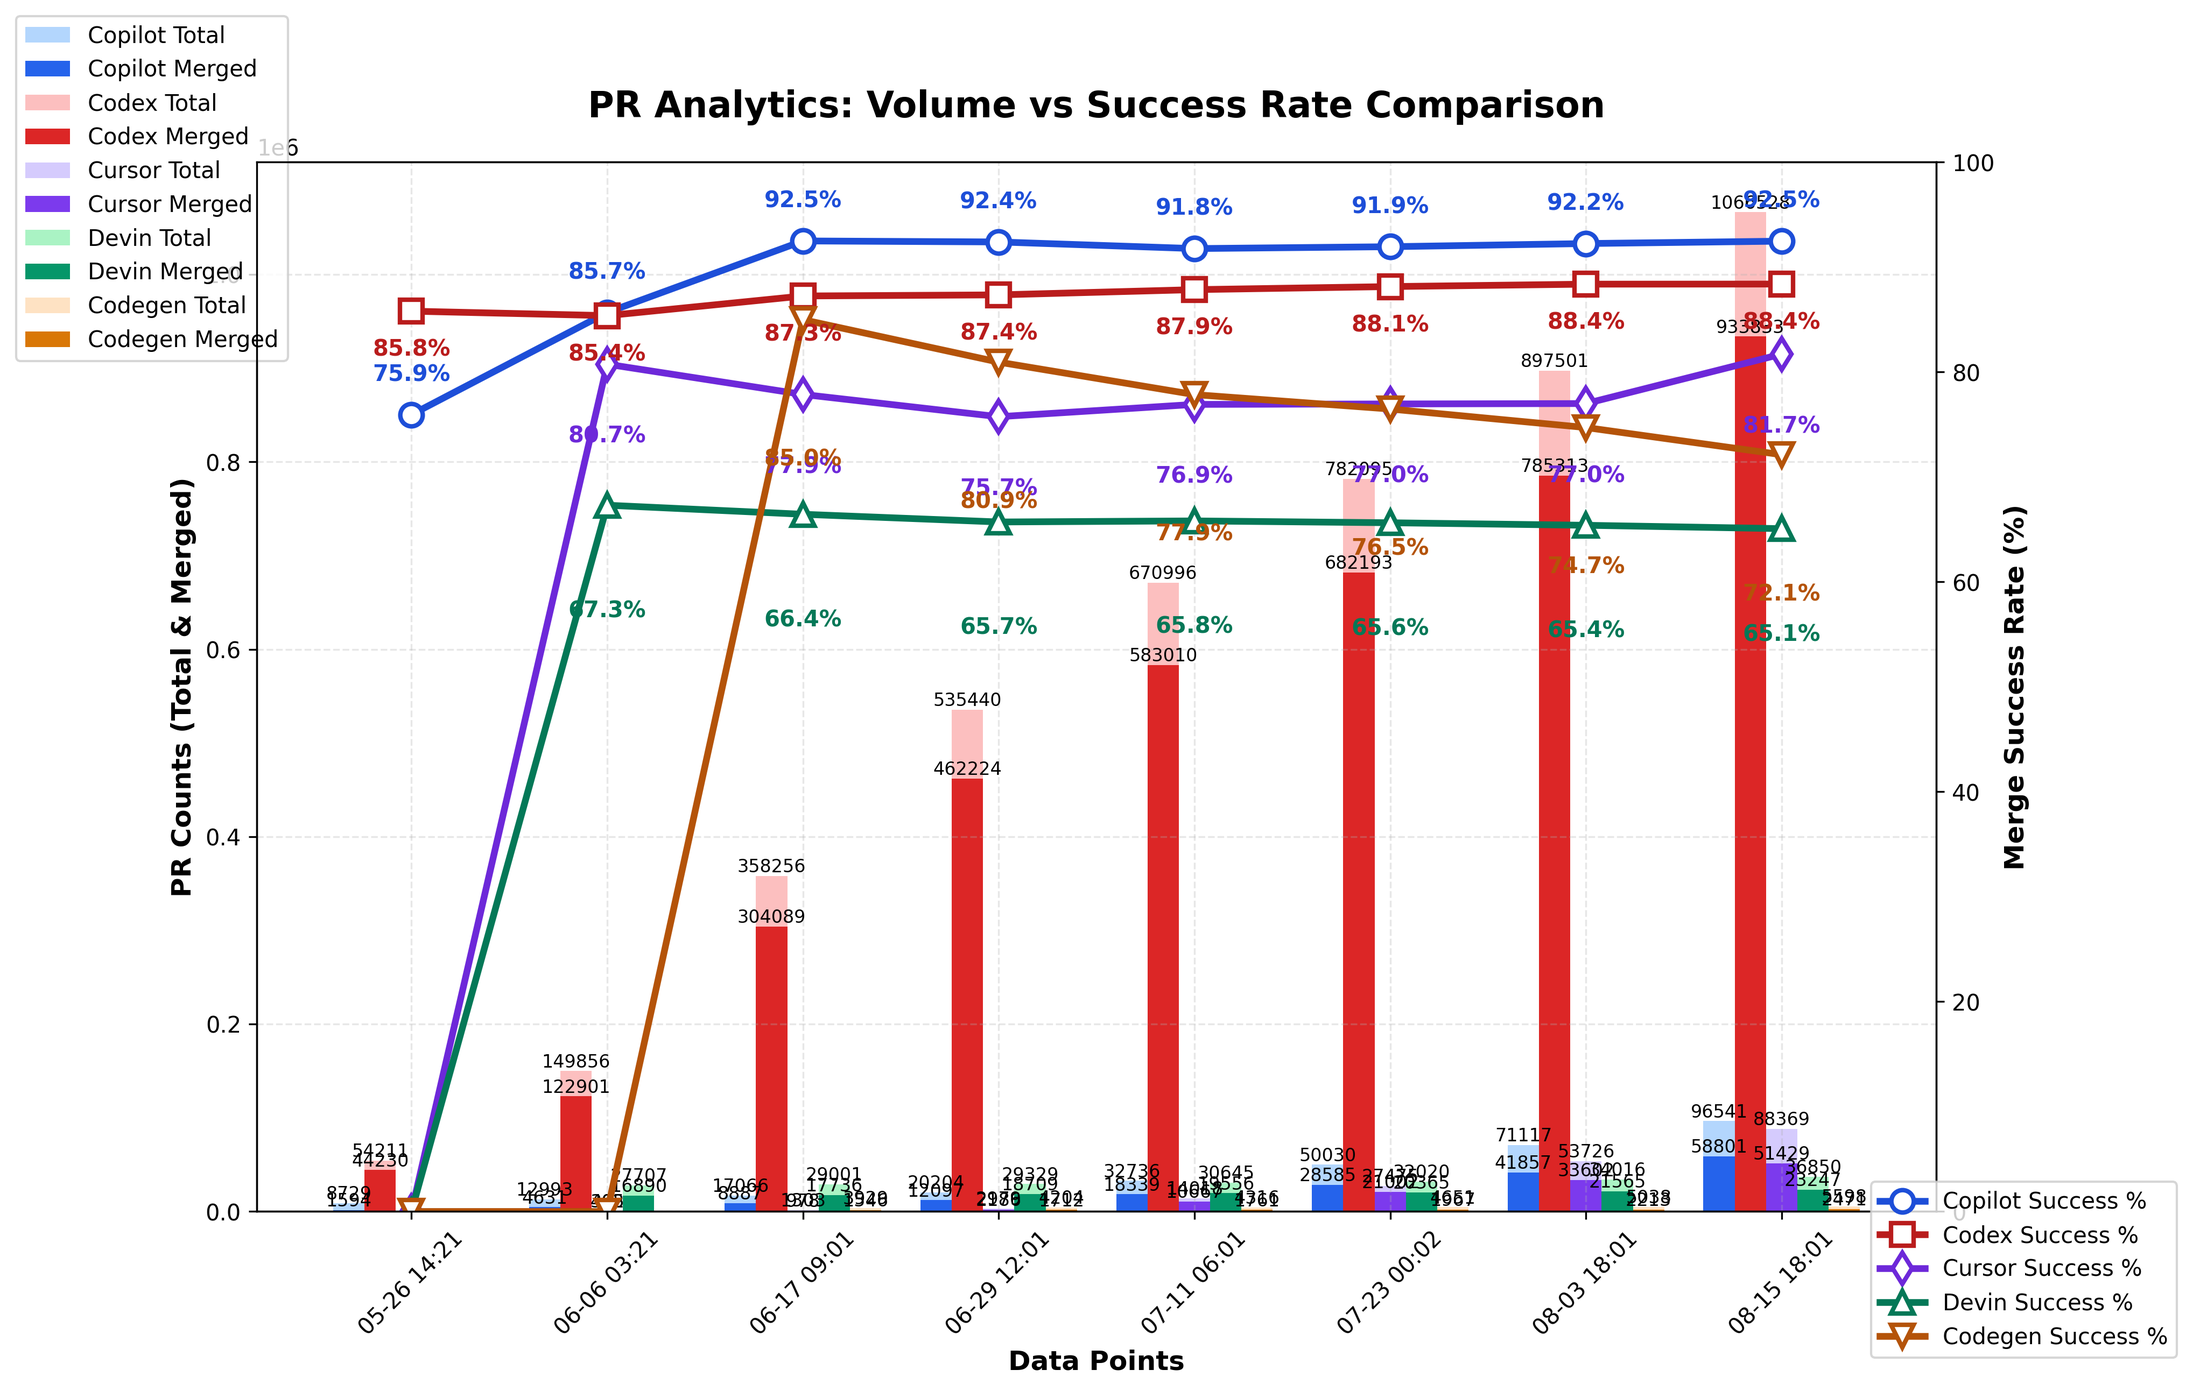
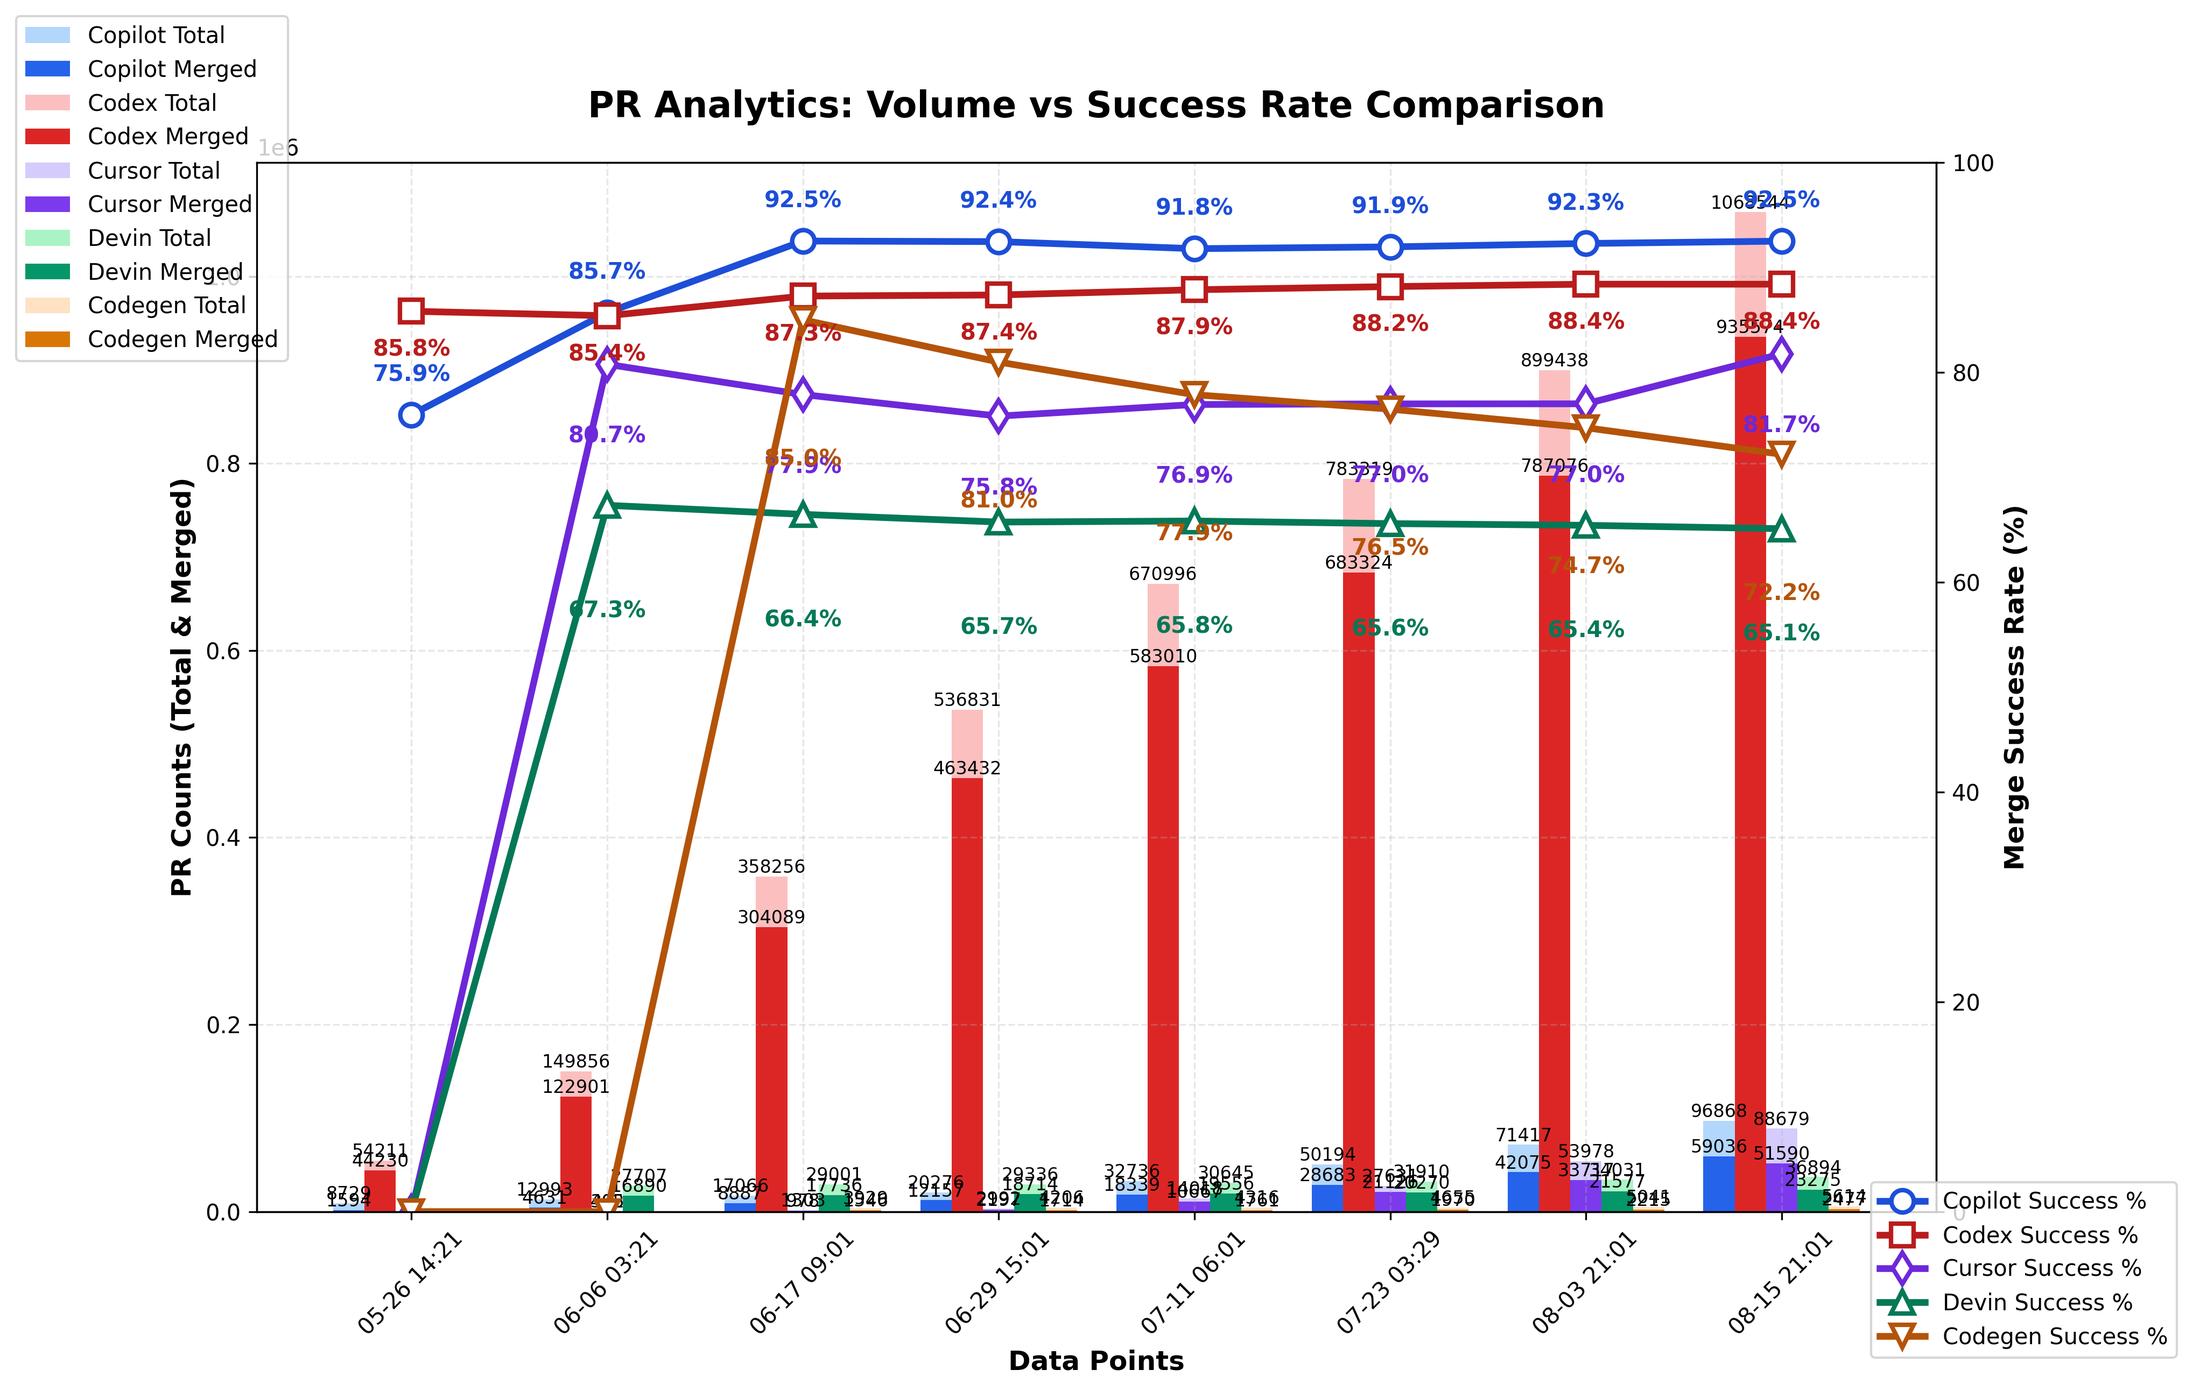
chore: update PR‑approval chart

diff --git a/docs/index.html b/docs/index.html
@@ -54,12 +54,12 @@
         <div class="agents-container" id="agentsContainer">
 
           <div class="agent"
-               data-success-rate="92.47621294330423"
-               data-success-rate-ready="92.47621294330423"
-               data-success-rate-total="60.90780083073513"
-               data-total-prs="96541"
-               data-ready-prs="63585"
-               data-merged-prs="58801"
+               data-success-rate="92.48652713372603"
+               data-success-rate-ready="92.48652713372603"
+               data-success-rate-total="60.944790849403304"
+               data-total-prs="96868"
+               data-ready-prs="63832"
+               data-merged-prs="59036"
                data-agent-name="GitHub Copilot coding agent">
             <div class="agent-header">
               <div class="rank" data-rank="1">#1</div>
@@ -67,9 +67,9 @@
               <div class="agent-info">
                 <h3><a href="https://docs.github.com/en/copilot/how-tos/use-copilot-agents/coding-agent" target="_blank">GitHub Copilot coding agent</a></h3>
                 <span class="agent-subtitle">
-                  <span class="pr-count">63,585</span>
+                  <span class="pr-count">63,832</span>
                   <span class="pr-type">ready</span> /
-                  <span class="pr-total">96,541</span>
+                  <span class="pr-total">96,868</span>
                   <span class="pr-total-label">all PRs</span>
                 </span>
               </div>
@@ -84,19 +84,19 @@
               <div class="secondary-metrics">
                 <div class="metric draft-metric">
                   <a href="https://github.com/search?q=is:pr+head:copilot/+is:draft&type=pullrequests" target="_blank">
-                    <span class="metric-count">32,956</span>
+                    <span class="metric-count">33,036</span>
                     <span>draft</span>
                   </a>
                 </div>
                 <div class="metric">
                   <a href="https://github.com/search?q=is:pr+head:copilot/+-is:draft&type=pullrequests" target="_blank">
-                    <span class="metric-count">63,585</span>
+                    <span class="metric-count">63,832</span>
                     <span>ready</span>
                   </a>
                 </div>
                 <div class="metric">
                   <a href="https://github.com/search?q=is:pr+head:copilot/+is:merged&type=pullrequests" target="_blank">
-                    <span class="metric-count">58,801</span>
+                    <span class="metric-count">59,036</span>
                     <span>merged</span>
                   </a>
                 </div>
@@ -105,18 +105,18 @@
           <div class="progress-bar">
             <div
               class="progress"
-              style="width: 92.47621294330423%; background-color: #2563eb"
+              style="width: 92.48652713372603%; background-color: #2563eb"
             ></div>
           </div>
         </div>
         
           <div class="agent"
-               data-success-rate="88.3873801138262"
-               data-success-rate-ready="88.3873801138262"
-               data-success-rate-total="87.55822631942152"
-               data-total-prs="1066528"
-               data-ready-prs="1056523"
-               data-merged-prs="933833"
+               data-success-rate="88.38343378615829"
+               data-success-rate-ready="88.38343378615829"
+               data-success-rate-total="87.55596400335409"
+               data-total-prs="1068544"
+               data-ready-prs="1058540"
+               data-merged-prs="935574"
                data-agent-name="OpenAI Codex">
             <div class="agent-header">
               <div class="rank" data-rank="2">#2</div>
@@ -124,9 +124,9 @@
               <div class="agent-info">
                 <h3><a href="https://openai.com/index/introducing-codex/" target="_blank">OpenAI Codex</a></h3>
                 <span class="agent-subtitle">
-                  <span class="pr-count">1,056,523</span>
+                  <span class="pr-count">1,058,540</span>
                   <span class="pr-type">ready</span> /
-                  <span class="pr-total">1,066,528</span>
+                  <span class="pr-total">1,068,544</span>
                   <span class="pr-total-label">all PRs</span>
                 </span>
               </div>
@@ -141,19 +141,19 @@
               <div class="secondary-metrics">
                 <div class="metric draft-metric">
                   <a href="https://github.com/search?q=is:pr+head:codex/+is:draft&type=pullrequests" target="_blank">
-                    <span class="metric-count">10,005</span>
+                    <span class="metric-count">10,004</span>
                     <span>draft</span>
                   </a>
                 </div>
                 <div class="metric">
                   <a href="https://github.com/search?q=is:pr+head:codex/+-is:draft&type=pullrequests" target="_blank">
-                    <span class="metric-count">1,056,523</span>
+                    <span class="metric-count">1,058,540</span>
                     <span>ready</span>
                   </a>
                 </div>
                 <div class="metric">
                   <a href="https://github.com/search?q=is:pr+head:codex/+is:merged&type=pullrequests" target="_blank">
-                    <span class="metric-count">933,833</span>
+                    <span class="metric-count">935,574</span>
                     <span>merged</span>
                   </a>
                 </div>
@@ -162,18 +162,18 @@
           <div class="progress-bar">
             <div
               class="progress"
-              style="width: 88.3873801138262%; background-color: #dc2626"
+              style="width: 88.38343378615829%; background-color: #dc2626"
             ></div>
           </div>
         </div>
         
           <div class="agent"
-               data-success-rate="81.71245173898537"
-               data-success-rate-ready="81.71245173898537"
-               data-success-rate-total="58.19801061458204"
-               data-total-prs="88369"
-               data-ready-prs="62939"
-               data-merged-prs="51429"
+               data-success-rate="81.74745281972461"
+               data-success-rate-ready="81.74745281972461"
+               data-success-rate-total="58.17611835947631"
+               data-total-prs="88679"
+               data-ready-prs="63109"
+               data-merged-prs="51590"
                data-agent-name="Cursor Agents">
             <div class="agent-header">
               <div class="rank" data-rank="3">#3</div>
@@ -181,9 +181,9 @@
               <div class="agent-info">
                 <h3><a href="https://docs.cursor.com/background-agent" target="_blank">Cursor Agents</a></h3>
                 <span class="agent-subtitle">
-                  <span class="pr-count">62,939</span>
+                  <span class="pr-count">63,109</span>
                   <span class="pr-type">ready</span> /
-                  <span class="pr-total">88,369</span>
+                  <span class="pr-total">88,679</span>
                   <span class="pr-total-label">all PRs</span>
                 </span>
               </div>
@@ -198,19 +198,19 @@
               <div class="secondary-metrics">
                 <div class="metric draft-metric">
                   <a href="https://github.com/search?q=is:pr+head:cursor/+is:draft&type=pullrequests" target="_blank">
-                    <span class="metric-count">25,430</span>
+                    <span class="metric-count">25,570</span>
                     <span>draft</span>
                   </a>
                 </div>
                 <div class="metric">
                   <a href="https://github.com/search?q=is:pr+head:cursor/+-is:draft&type=pullrequests" target="_blank">
-                    <span class="metric-count">62,939</span>
+                    <span class="metric-count">63,109</span>
                     <span>ready</span>
                   </a>
                 </div>
                 <div class="metric">
                   <a href="https://github.com/search?q=is:pr+head:cursor/+is:merged&type=pullrequests" target="_blank">
-                    <span class="metric-count">51,429</span>
+                    <span class="metric-count">51,590</span>
                     <span>merged</span>
                   </a>
                 </div>
@@ -219,18 +219,18 @@
           <div class="progress-bar">
             <div
               class="progress"
-              style="width: 81.71245173898537%; background-color: #7c3aed"
+              style="width: 81.74745281972461%; background-color: #7c3aed"
             ></div>
           </div>
         </div>
         
           <div class="agent"
-               data-success-rate="65.07572152394816"
-               data-success-rate-ready="65.07572152394816"
-               data-success-rate-total="63.0854816824966"
-               data-total-prs="36850"
-               data-ready-prs="35723"
-               data-merged-prs="23247"
+               data-success-rate="65.07940946202886"
+               data-success-rate-ready="65.07940946202886"
+               data-success-rate-total="63.08613866753402"
+               data-total-prs="36894"
+               data-ready-prs="35764"
+               data-merged-prs="23275"
                data-agent-name="Devin">
             <div class="agent-header">
               <div class="rank" data-rank="4">#4</div>
@@ -238,9 +238,9 @@
               <div class="agent-info">
                 <h3><a href="https://devin.ai/pricing" target="_blank">Devin</a></h3>
                 <span class="agent-subtitle">
-                  <span class="pr-count">35,723</span>
+                  <span class="pr-count">35,764</span>
                   <span class="pr-type">ready</span> /
-                  <span class="pr-total">36,850</span>
+                  <span class="pr-total">36,894</span>
                   <span class="pr-total-label">all PRs</span>
                 </span>
               </div>
@@ -255,19 +255,19 @@
               <div class="secondary-metrics">
                 <div class="metric draft-metric">
                   <a href="https://github.com/search?q=is:pr+author:devin-ai-integration[bot]+is:draft&type=pullrequests" target="_blank">
-                    <span class="metric-count">1,127</span>
+                    <span class="metric-count">1,130</span>
                     <span>draft</span>
                   </a>
                 </div>
                 <div class="metric">
                   <a href="https://github.com/search?q=is:pr+author:devin-ai-integration[bot]+-is:draft&type=pullrequests" target="_blank">
-                    <span class="metric-count">35,723</span>
+                    <span class="metric-count">35,764</span>
                     <span>ready</span>
                   </a>
                 </div>
                 <div class="metric">
                   <a href="https://github.com/search?q=is:pr+author:devin-ai-integration[bot]+is:merged&type=pullrequests" target="_blank">
-                    <span class="metric-count">23,247</span>
+                    <span class="metric-count">23,275</span>
                     <span>merged</span>
                   </a>
                 </div>
@@ -276,18 +276,18 @@
           <div class="progress-bar">
             <div
               class="progress"
-              style="width: 65.07572152394816%; background-color: #059669"
+              style="width: 65.07940946202886%; background-color: #059669"
             ></div>
           </div>
         </div>
         
           <div class="agent"
-               data-success-rate="72.12492702860479"
-               data-success-rate-ready="72.12492702860479"
-               data-success-rate-total="44.14076455877099"
-               data-total-prs="5598"
-               data-ready-prs="3426"
-               data-merged-prs="2471"
+               data-success-rate="72.17365967365967"
+               data-success-rate-ready="72.17365967365967"
+               data-success-rate-total="44.12183826148913"
+               data-total-prs="5614"
+               data-ready-prs="3432"
+               data-merged-prs="2477"
                data-agent-name="Codegen">
             <div class="agent-header">
               <div class="rank" data-rank="5">#5</div>
@@ -295,9 +295,9 @@
               <div class="agent-info">
                 <h3><a href="https://codegen.com/" target="_blank">Codegen</a></h3>
                 <span class="agent-subtitle">
-                  <span class="pr-count">3,426</span>
+                  <span class="pr-count">3,432</span>
                   <span class="pr-type">ready</span> /
-                  <span class="pr-total">5,598</span>
+                  <span class="pr-total">5,614</span>
                   <span class="pr-total-label">all PRs</span>
                 </span>
               </div>
@@ -305,26 +305,26 @@
             <div class="metrics">
               <div class="primary-metric">
                 <span class="metric-value">
-                  72.1%
+                  72.2%
                 </span>
                 <span class="metric-label">Success Rate</span>
               </div>
               <div class="secondary-metrics">
                 <div class="metric draft-metric">
                   <a href="https://github.com/search?q=is:pr+author:codegen-sh[bot]+is:draft&type=pullrequests" target="_blank">
-                    <span class="metric-count">2,172</span>
+                    <span class="metric-count">2,182</span>
                     <span>draft</span>
                   </a>
                 </div>
                 <div class="metric">
                   <a href="https://github.com/search?q=is:pr+author:codegen-sh[bot]+-is:draft&type=pullrequests" target="_blank">
-                    <span class="metric-count">3,426</span>
+                    <span class="metric-count">3,432</span>
                     <span>ready</span>
                   </a>
                 </div>
                 <div class="metric">
                   <a href="https://github.com/search?q=is:pr+author:codegen-sh[bot]+is:merged&type=pullrequests" target="_blank">
-                    <span class="metric-count">2,471</span>
+                    <span class="metric-count">2,477</span>
                     <span>merged</span>
                   </a>
                 </div>
@@ -333,7 +333,7 @@
           <div class="progress-bar">
             <div
               class="progress"
-              style="width: 72.12492702860479%; background-color: #d97706"
+              style="width: 72.17365967365967%; background-color: #d97706"
             ></div>
           </div>
         </div>
@@ -466,7 +466,7 @@
       <!-- Simple Footer -->
       <footer class="footer">
         <p>
-          Updated August 15, 2025 18:01 UTC •
+          Updated August 15, 2025 21:01 UTC •
           <a href="https://github.com/aavetis/ai-pr-watcher" target="_blank">by aavetis</a>
         </p>
       </footer>

diff --git a/README.md b/README.md
@@ -48,8 +48,8 @@ Explore the GitHub search queries used:
 
 | Project | Ready PRs | Merged PRs | Success Rate |
 | ------- | --------- | ---------- | ------------ |
-| Copilot | 63,585 | 58,801 | 92.48% |
-| Codex | 1,056,523 | 933,833 | 88.39% |
-| Cursor | 62,939 | 51,429 | 81.71% |
-| Devin | 35,723 | 23,247 | 65.08% |
-| Codegen | 3,426 | 2,471 | 72.12% |
+| Copilot | 63,832 | 59,036 | 92.49% |
+| Codex | 1,058,540 | 935,574 | 88.38% |
+| Cursor | 63,109 | 51,590 | 81.75% |
+| Devin | 35,764 | 23,275 | 65.08% |
+| Codegen | 3,432 | 2,477 | 72.17% |
